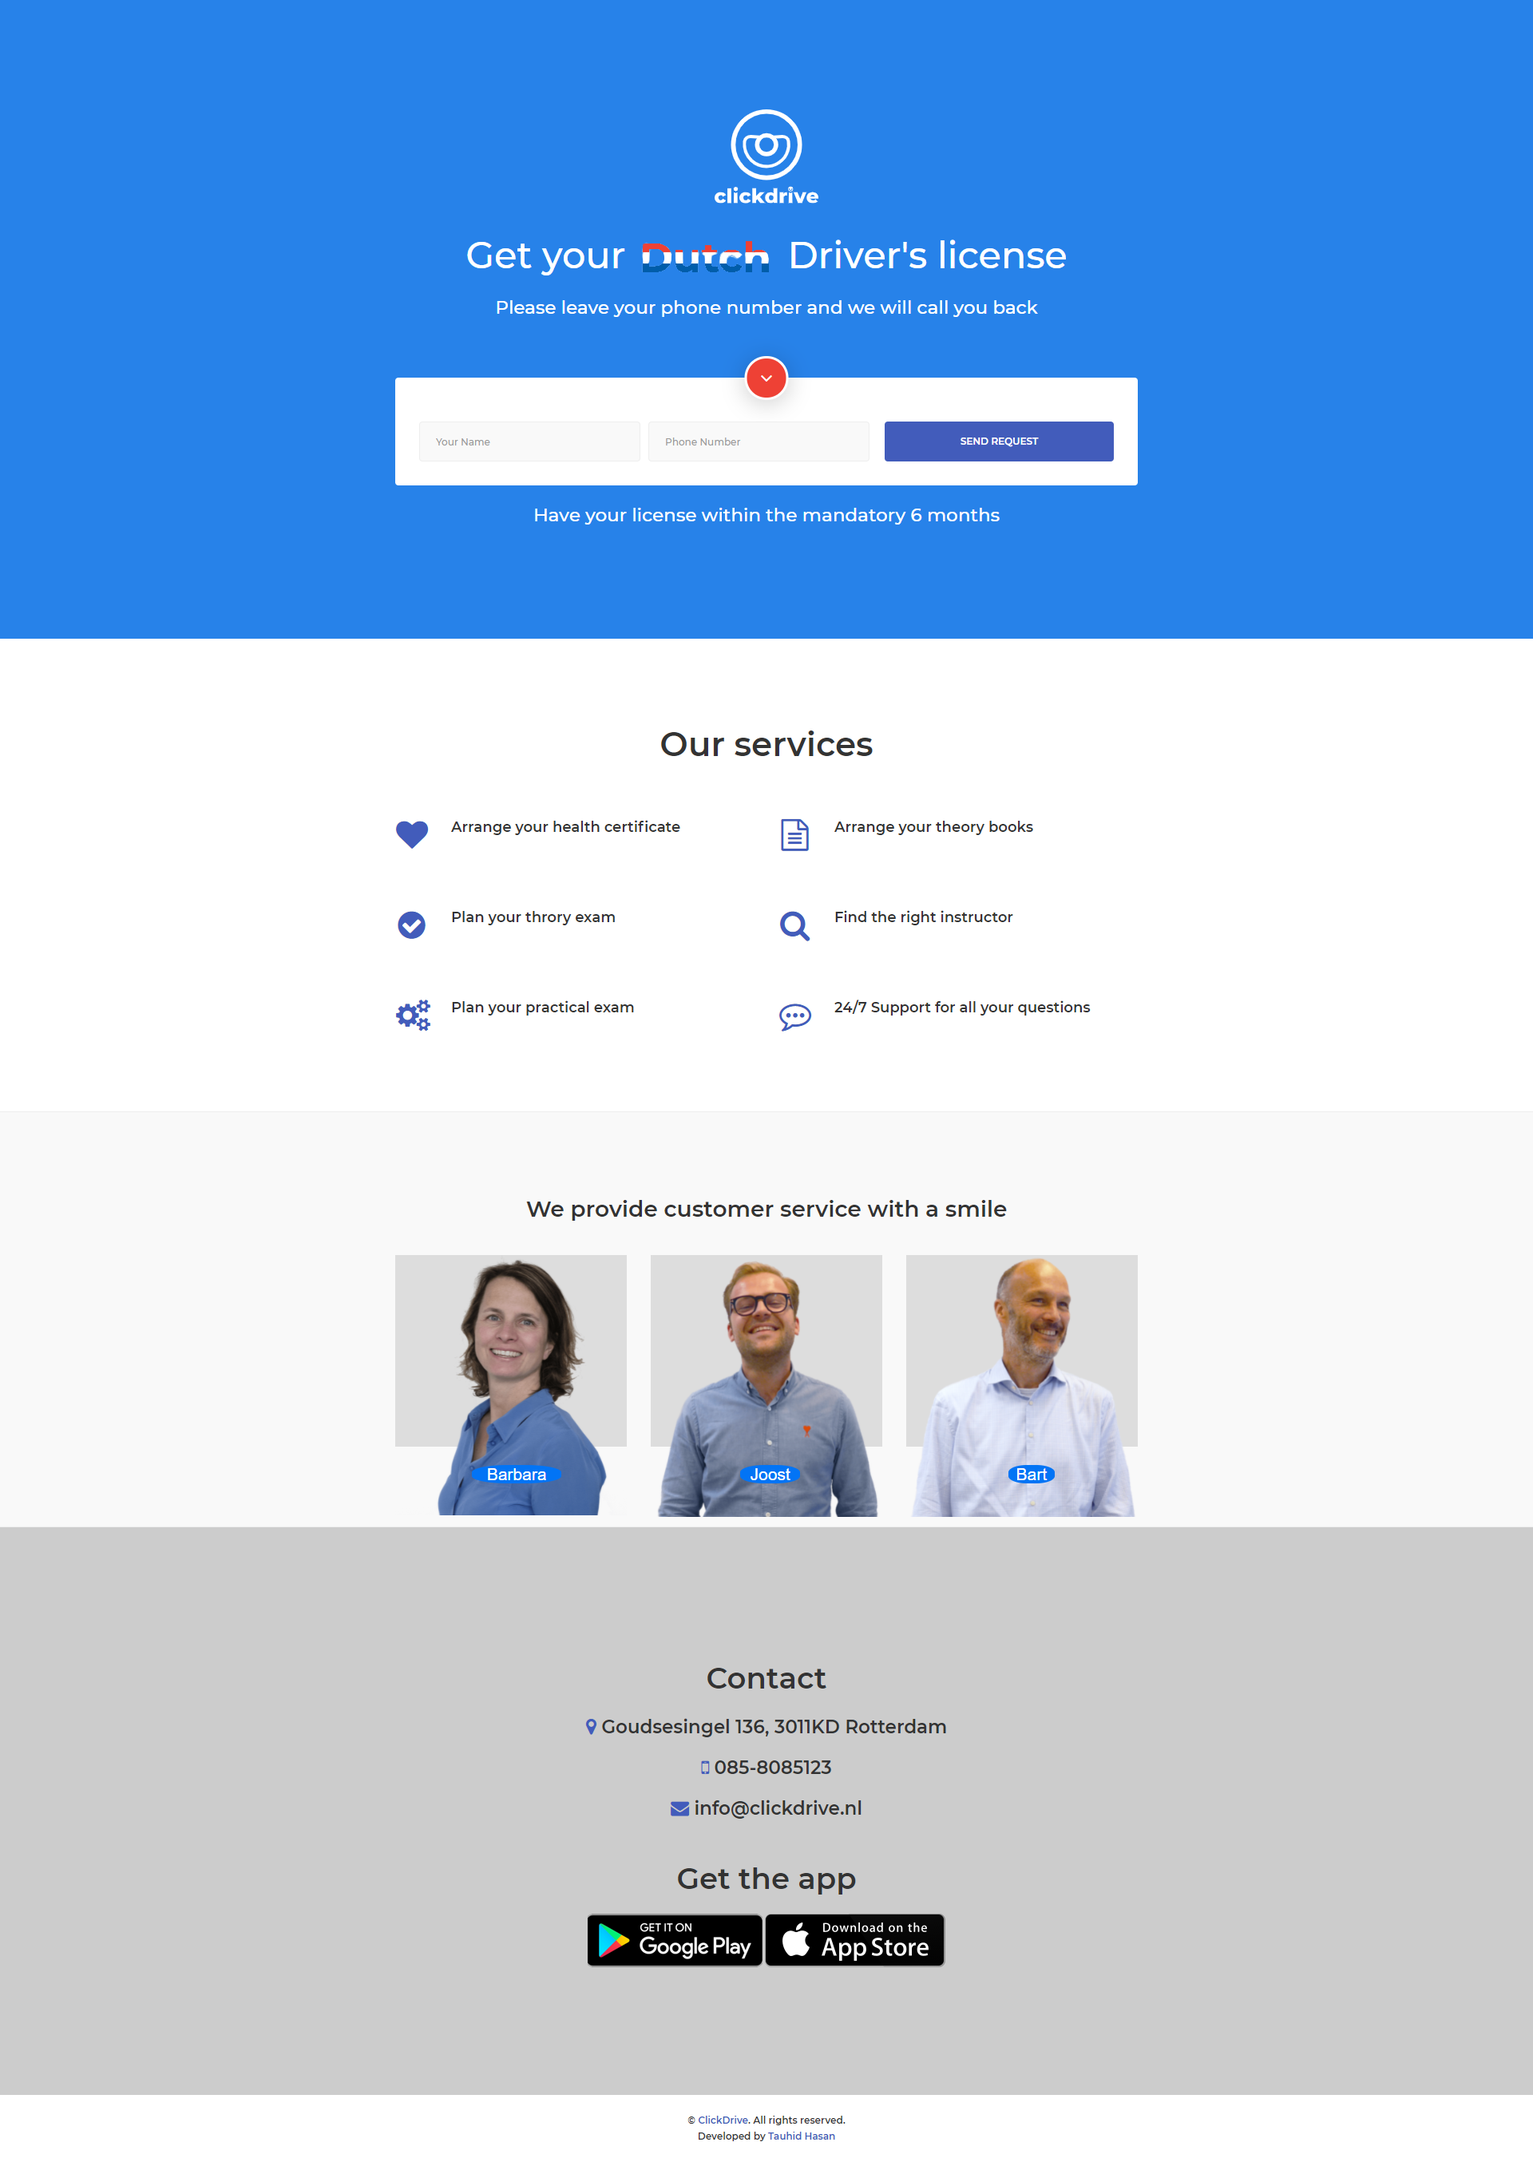
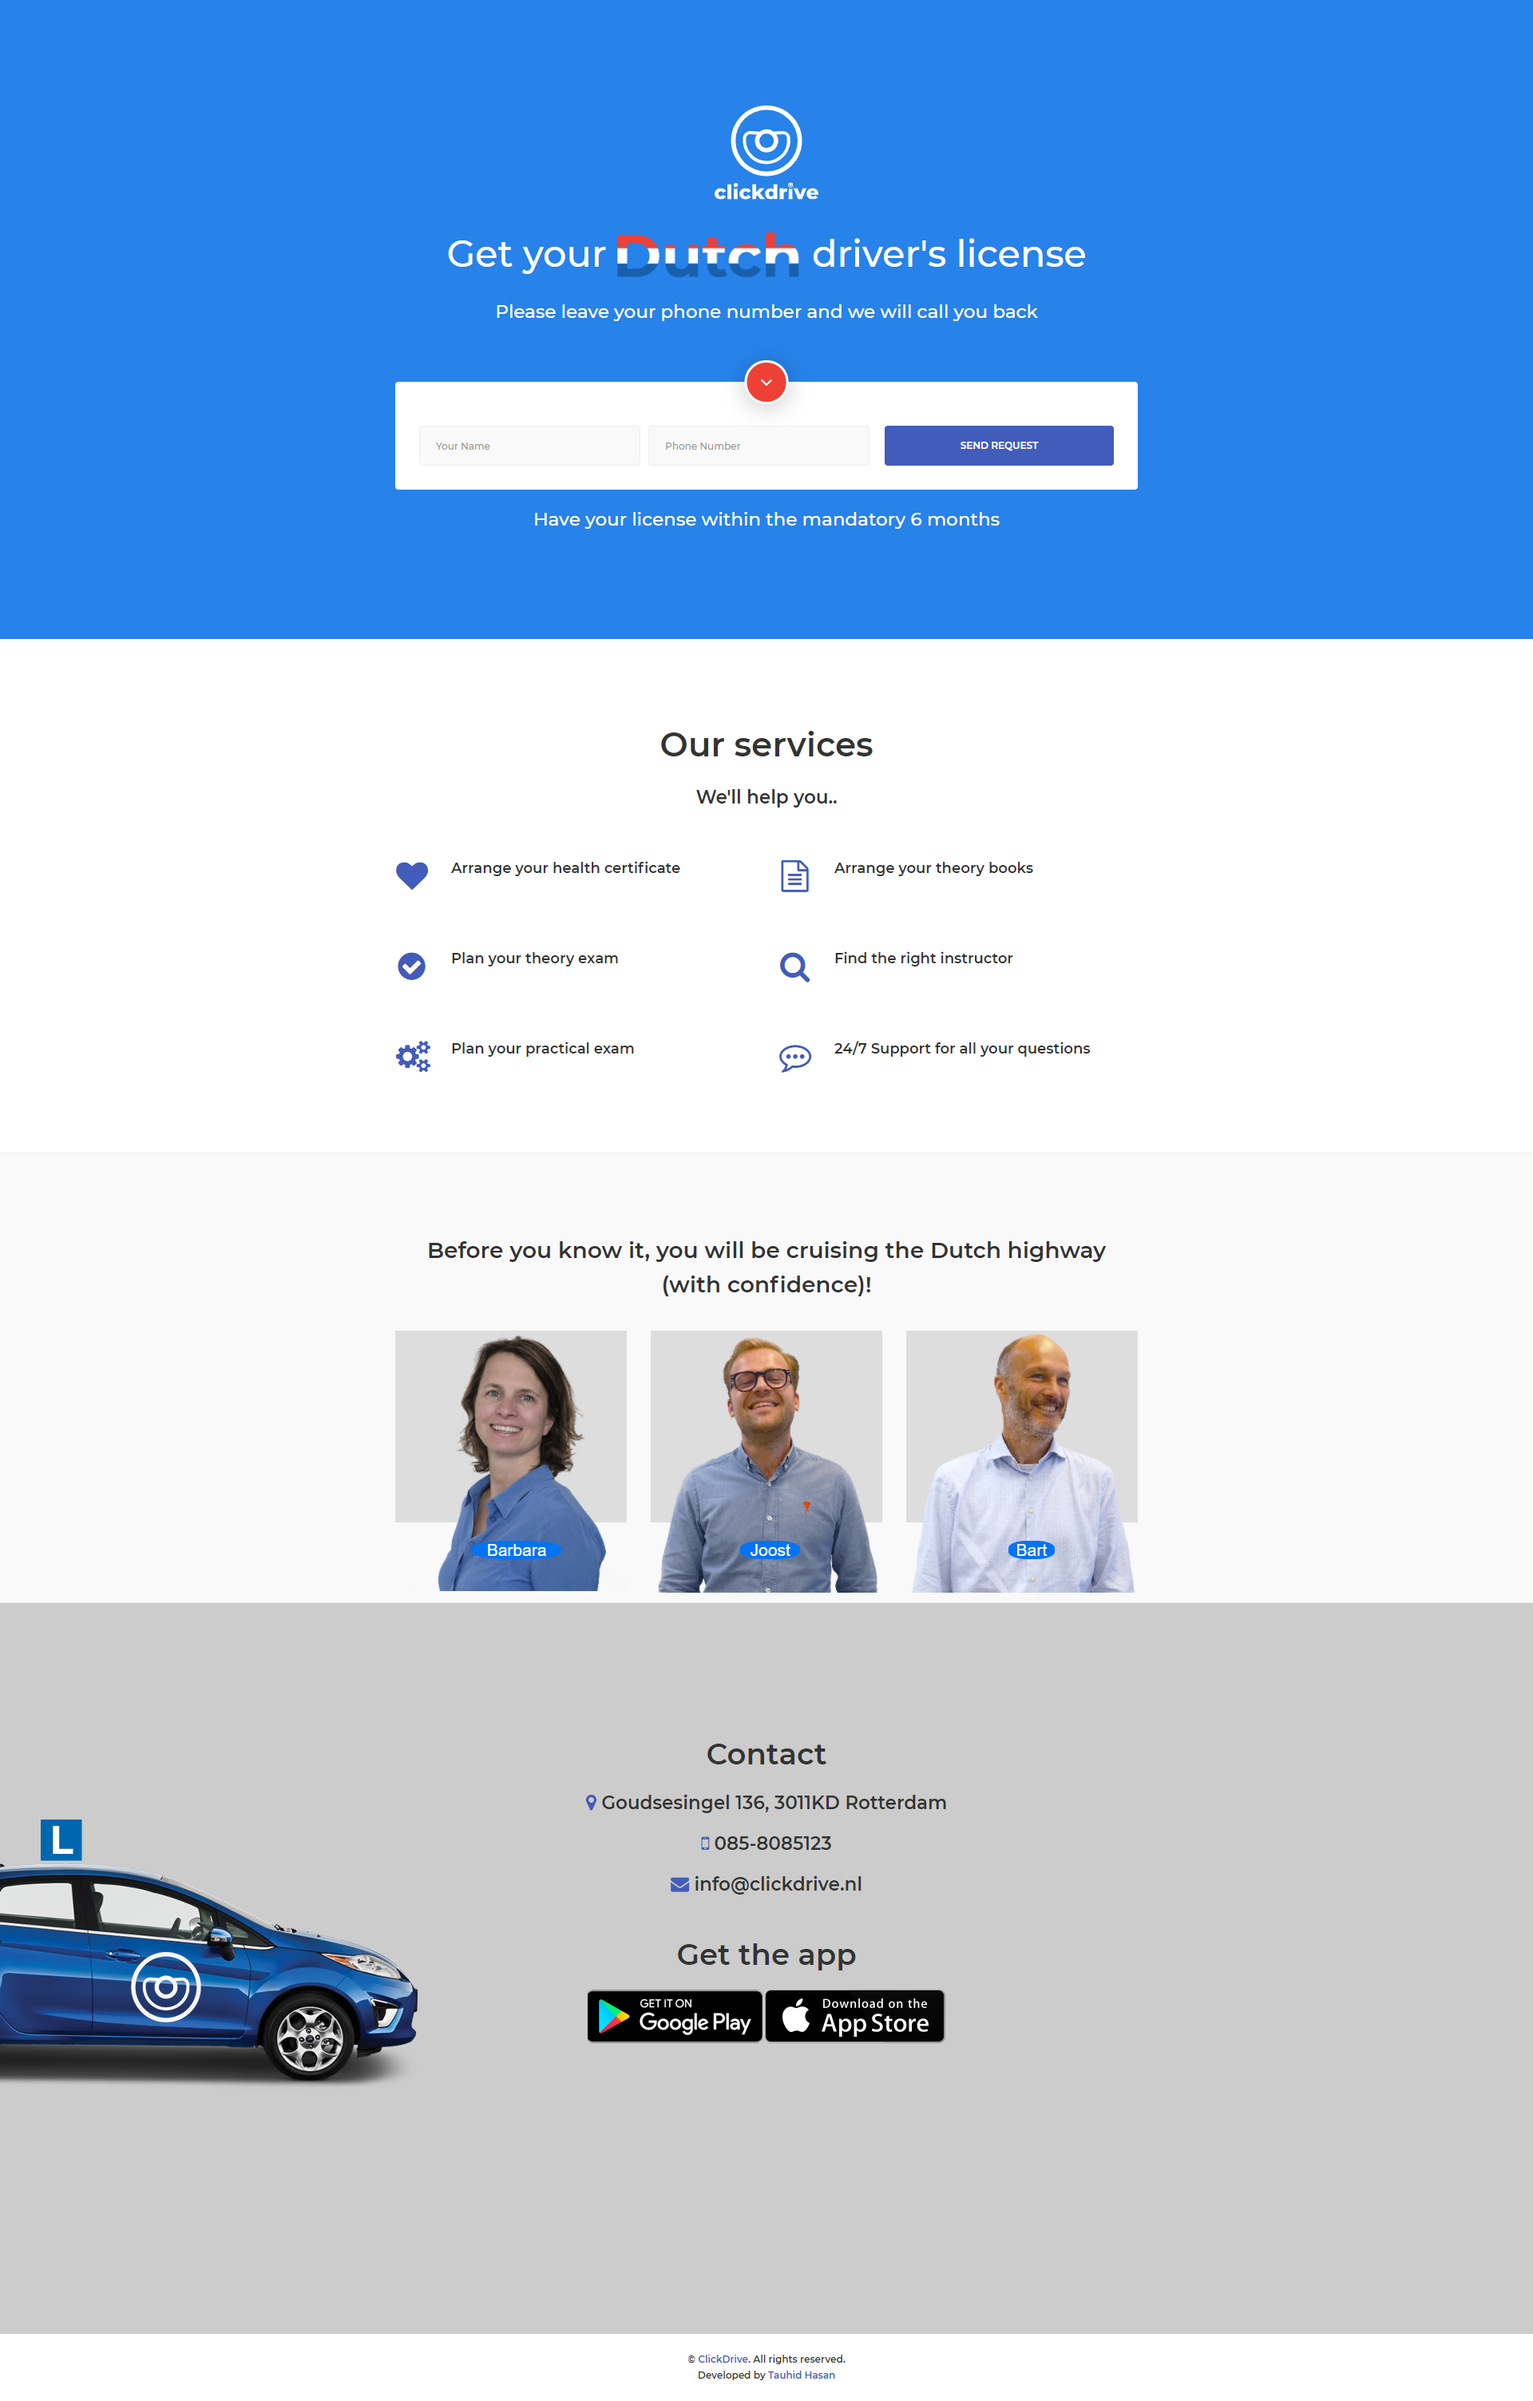
Revision 2

diff --git a/index.php b/index.php
@@ -73,7 +73,7 @@
 
 
 									<img class="logo-banner" src="images/logoWhite.svg" alt="clickdrive logo" style="width: 130px;">
-									<h1 style="font-size: 3.3em">Get your <span><img src="images/BG_less_dutch.png" style="display: inline;"></span> Driver's license</h1>
+									<h1 style="font-size: 3.3em">Get your <span><img src="images/DUTCH.png" style="display: inline; width: 25%;"></span> driver's license</h1>
 									<div class="description">
 										<h3 style="font-weight: 500;">Please leave your phone number and we will call you back</h3>
 										
@@ -158,6 +158,7 @@
 
 								<div class="text-center" style="padding-bottom: 3em;">
 									<h2 style="font-size: 3em;">Our services</h2>
+									<h3>We'll help you..</h3>
 								</div>
 								
 								<div class="col-md-6">
@@ -188,7 +189,7 @@
 									<div class="box-info mb-md-50">
 										<div class="box-icon icon x2 colorful-icon mr-20"><i class="fa fa-check-circle"></i></div>
 										<div class="box-content">
-											<h4>Plan your throry exam</h4>
+											<h4>Plan your theory exam</h4>
 											
 										</div><!-- .box-content end -->
 									</div><!-- .box-info end -->
@@ -242,7 +243,7 @@
 					<div class="section-content">
 
 						<div class="container">
-							<h2 class="text-center" style="font-size: 2em; padding-bottom: 20px;">We provide customer service with a smile</h2>
+							<h2 class="text-center" style="font-size: 2em; padding-bottom: 20px;">Before you know it, you will be cruising the Dutch highway (with confidence)!</h2>
 							<div class="row">
 
 								<!-- <div class="text-center col-md-12 col-sm-12" style="padding-bottom: 3em;">
@@ -327,9 +328,16 @@
 					
 					<div class="section-content">
 
-						<div class="container">
+						<!-- <div class="container"> -->
 							<div class="row">
-								<div class="col-md-8 col-md-offset-2 text-center">
+								<!-- <div class="col-md-8 col-md-offset-2 text-center"> -->
+
+								
+								<div class="col-md-2 col-sm-12">
+									<img src="images/Sedan.png" style="    max-width: 1000px !important; margin-left: -96%;">
+								</div>
+
+								<div class="col-md-8 col-sm-12 text-center">
 
 									<h1>Contact</h1>
 									
@@ -360,9 +368,12 @@
 									</a>
 									
 
-								</div><!-- .col-md-8 end -->
+								</div><!-- .col-md-4 end -->
+
+								<div class="col-md-2 col-sm-12"></div>
+
 							</div><!-- .row end -->
-						</div><!-- .container end -->
+						<!-- </div>.container end -->
 
 					</div><!-- .section-content end -->
 
